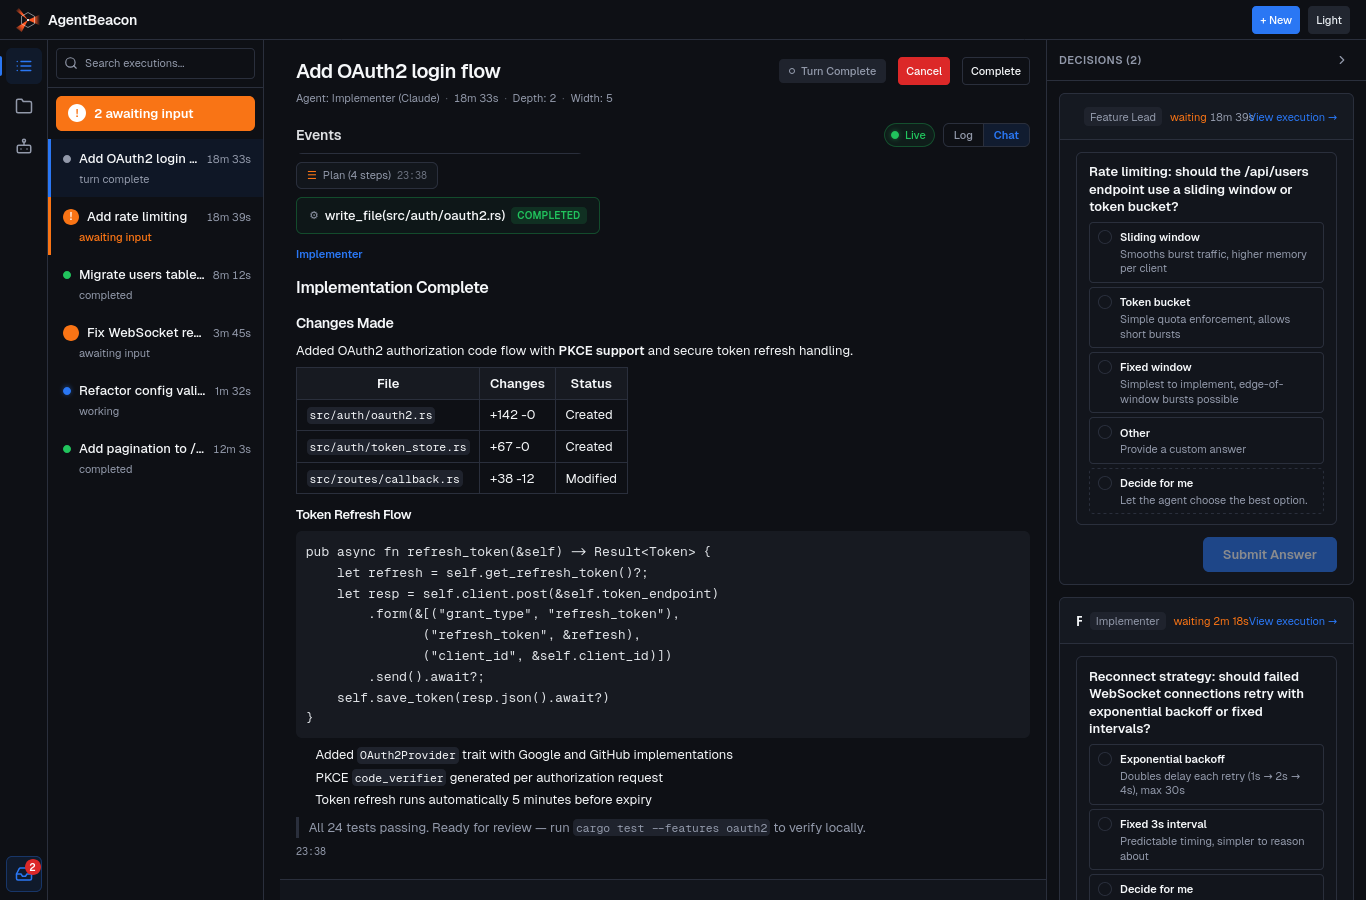
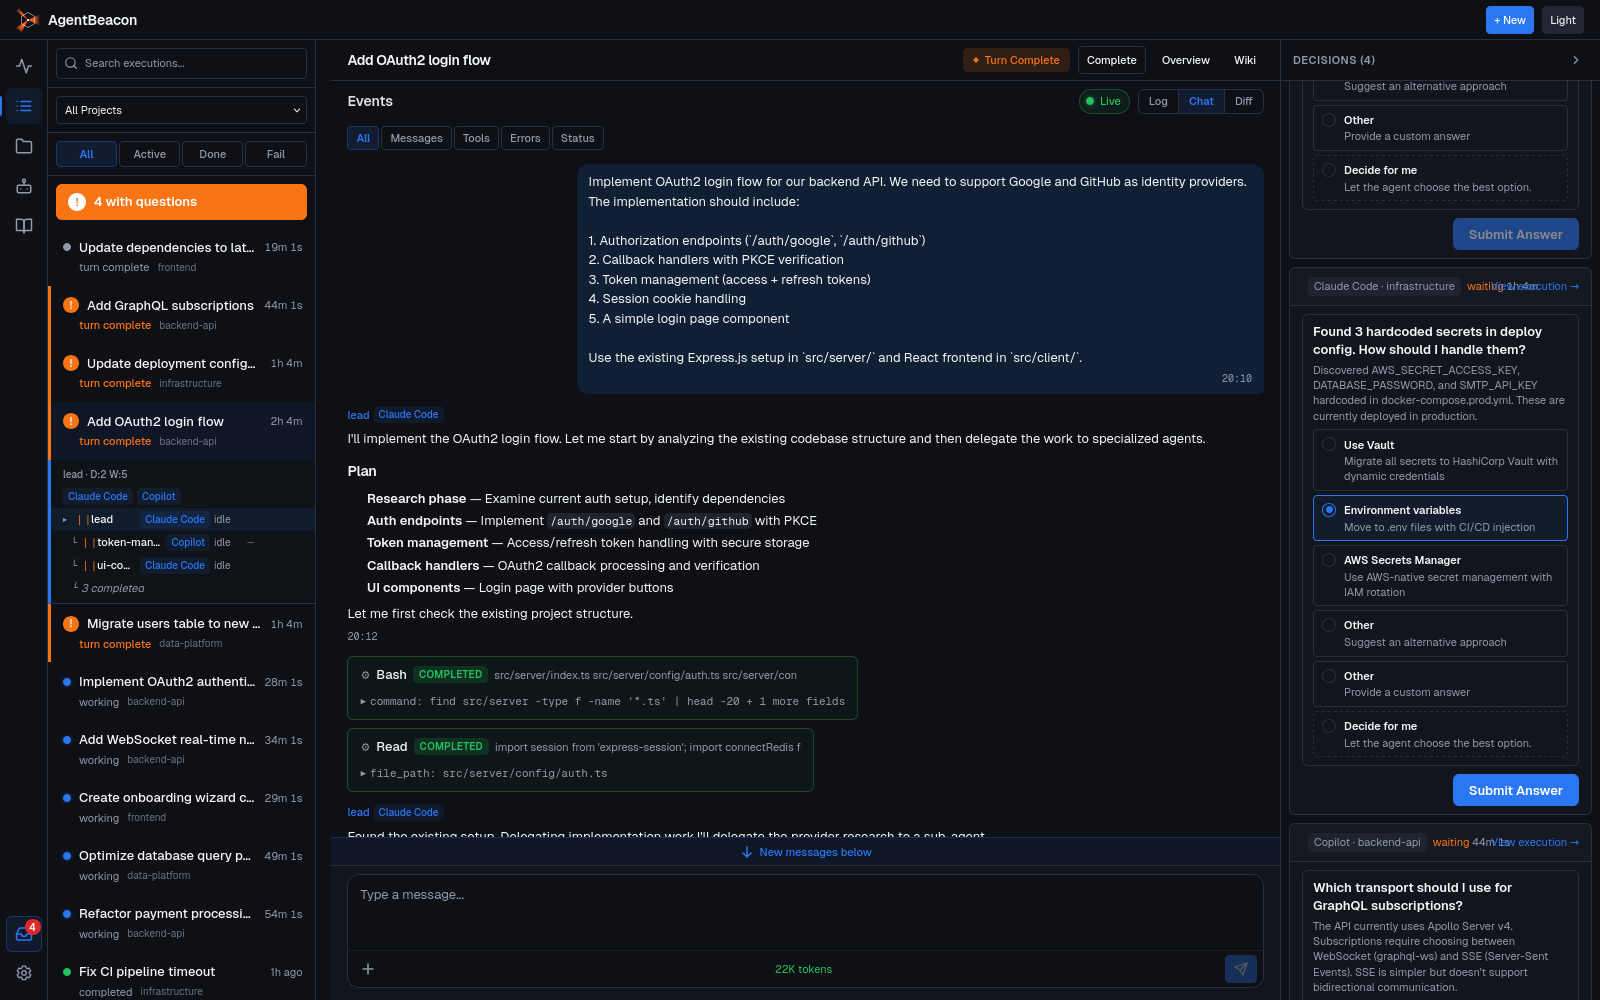
chore: update readme

diff --git a/README.md b/README.md
@@ -39,10 +39,12 @@ The interaction model is closer to **triaging an inbox** than monitoring a termi
 One engineer, multiple features in flight, decisions as the main touchpoint.
 
 <p align="center">
-  <img src="docs/screenshot-ops-home.png" alt="AgentBeacon — ops dashboard with activity feed, agent badges, and decision queue" width="900" />
+  <img src="docs/screenshot-org-chart.png" alt="AgentBeacon — execution org chart showing lead agent delegating to architect and frontend teams, with structured decision queue" width="900" />
 </p>
 
 ## Quick Start
+
+**Platform:** Linux (x86_64 and aarch64). macOS support coming soon.
 
 Install via pip, npm, or build from source:
 
@@ -97,7 +99,11 @@ Requires Rust toolchain and Node.js 20+.
 **4. Review converged output.** After agents iterate and converge, review the result. Each execution maintains a full decision log so you can trace why things were built the way they were.
 
 <p align="center">
-  <img src="docs/screenshot-hero.png" alt="AgentBeacon — execution detail showing agent chat, code diffs, and tool calls" width="680" />
+  <img src="docs/screenshot-ops-home.png" alt="AgentBeacon — ops dashboard with activity feed, agent badges, and decision queue" width="900" />
+</p>
+
+<p align="center">
+  <img src="docs/screenshot-hero.png" alt="AgentBeacon — execution detail showing agent chat, tool calls, delegations, and structured decisions" width="680" />
 </p>
 
 ## Why It Works This Way
@@ -110,9 +116,9 @@ Requires Rust toolchain and Node.js 20+.
 
 **Protocol-native, self-hosted, provider-agnostic.** Native integrations for [Claude Code](https://docs.anthropic.com/en/docs/claude-code), [Codex CLI](https://github.com/openai/codex), [GitHub Copilot](https://github.com/github/copilot-cli), and [OpenCode](https://github.com/anomalyco/opencode), with [ACP](https://spec.agentcontextprotocol.org/) support for any compatible agent. Built on [MCP](https://modelcontextprotocol.io/) for tool integration and [A2A](https://google.github.io/A2A/) for agent interop. No proprietary protocols. Your code, your machine, your API keys.
 
-**Three primitives, any scale.** The entire coordination model is three operations: `delegate`, `release`, `escalate`. From 3 agents to 100+. Research shows LLM performance degrades with tool count, so the surface is deliberately small. The same primitives work at every level of the hierarchy, whether that's two agents or twenty.
+**Two primitives, any scale.** The entire coordination model is two operations: `delegate` and `release` — create and destroy. When agents hit genuine ambiguity, they surface structured questions to a decision queue. From 3 agents to 100+. Research shows LLM performance degrades with tool count, so the surface is deliberately small. The same primitives work at every level of the hierarchy, whether that's two agents or twenty.
 
-**Designed for future models.** The same three primitives work whether you're delegating a single endpoint or an entire product. As models improve, the scope of what you can delegate grows, and the architecture is deliberately not the bottleneck. Today you operate as a tech lead making per-feature decisions. As the ceiling rises, the same system scales with it.
+**Designed for future models.** The same two primitives work whether you're delegating a single endpoint or an entire product. As models improve, the scope of what you can delegate grows, and the architecture is deliberately not the bottleneck. Today you operate as a tech lead making per-feature decisions. As the ceiling rises, the same system scales with it.
 
 ## Status
 
